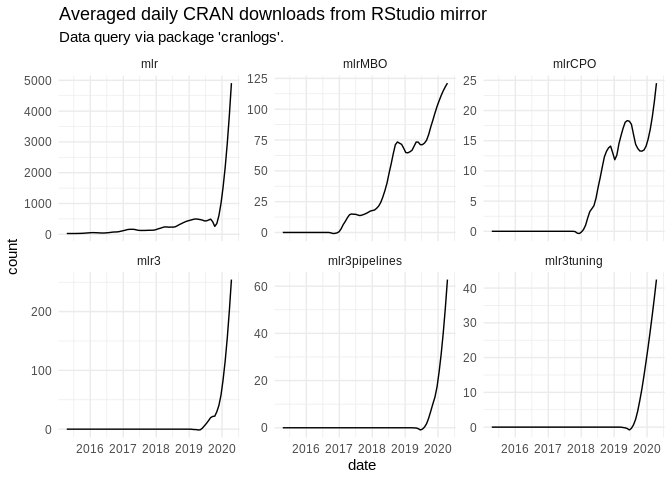
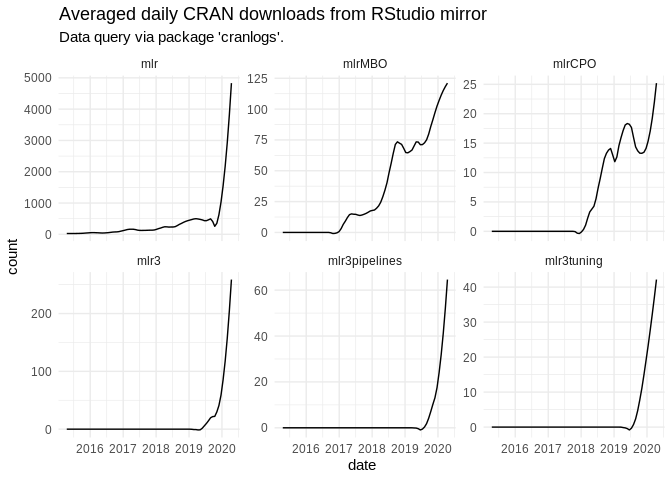
Deploy from Travis build 168 [ci skip]
Build URL: https://travis-ci.org/mlr-org/mlrcranlog/builds/675549046
Commit: 8affc90bd95b5839dec5dee49dfb6cda99c3515c

diff --git a/README.md b/README.md
@@ -9,7 +9,7 @@
 
 Created on
 
-    ## [1] "2020-04-15"
+    ## [1] "2020-04-16"
 
 <details>
 
